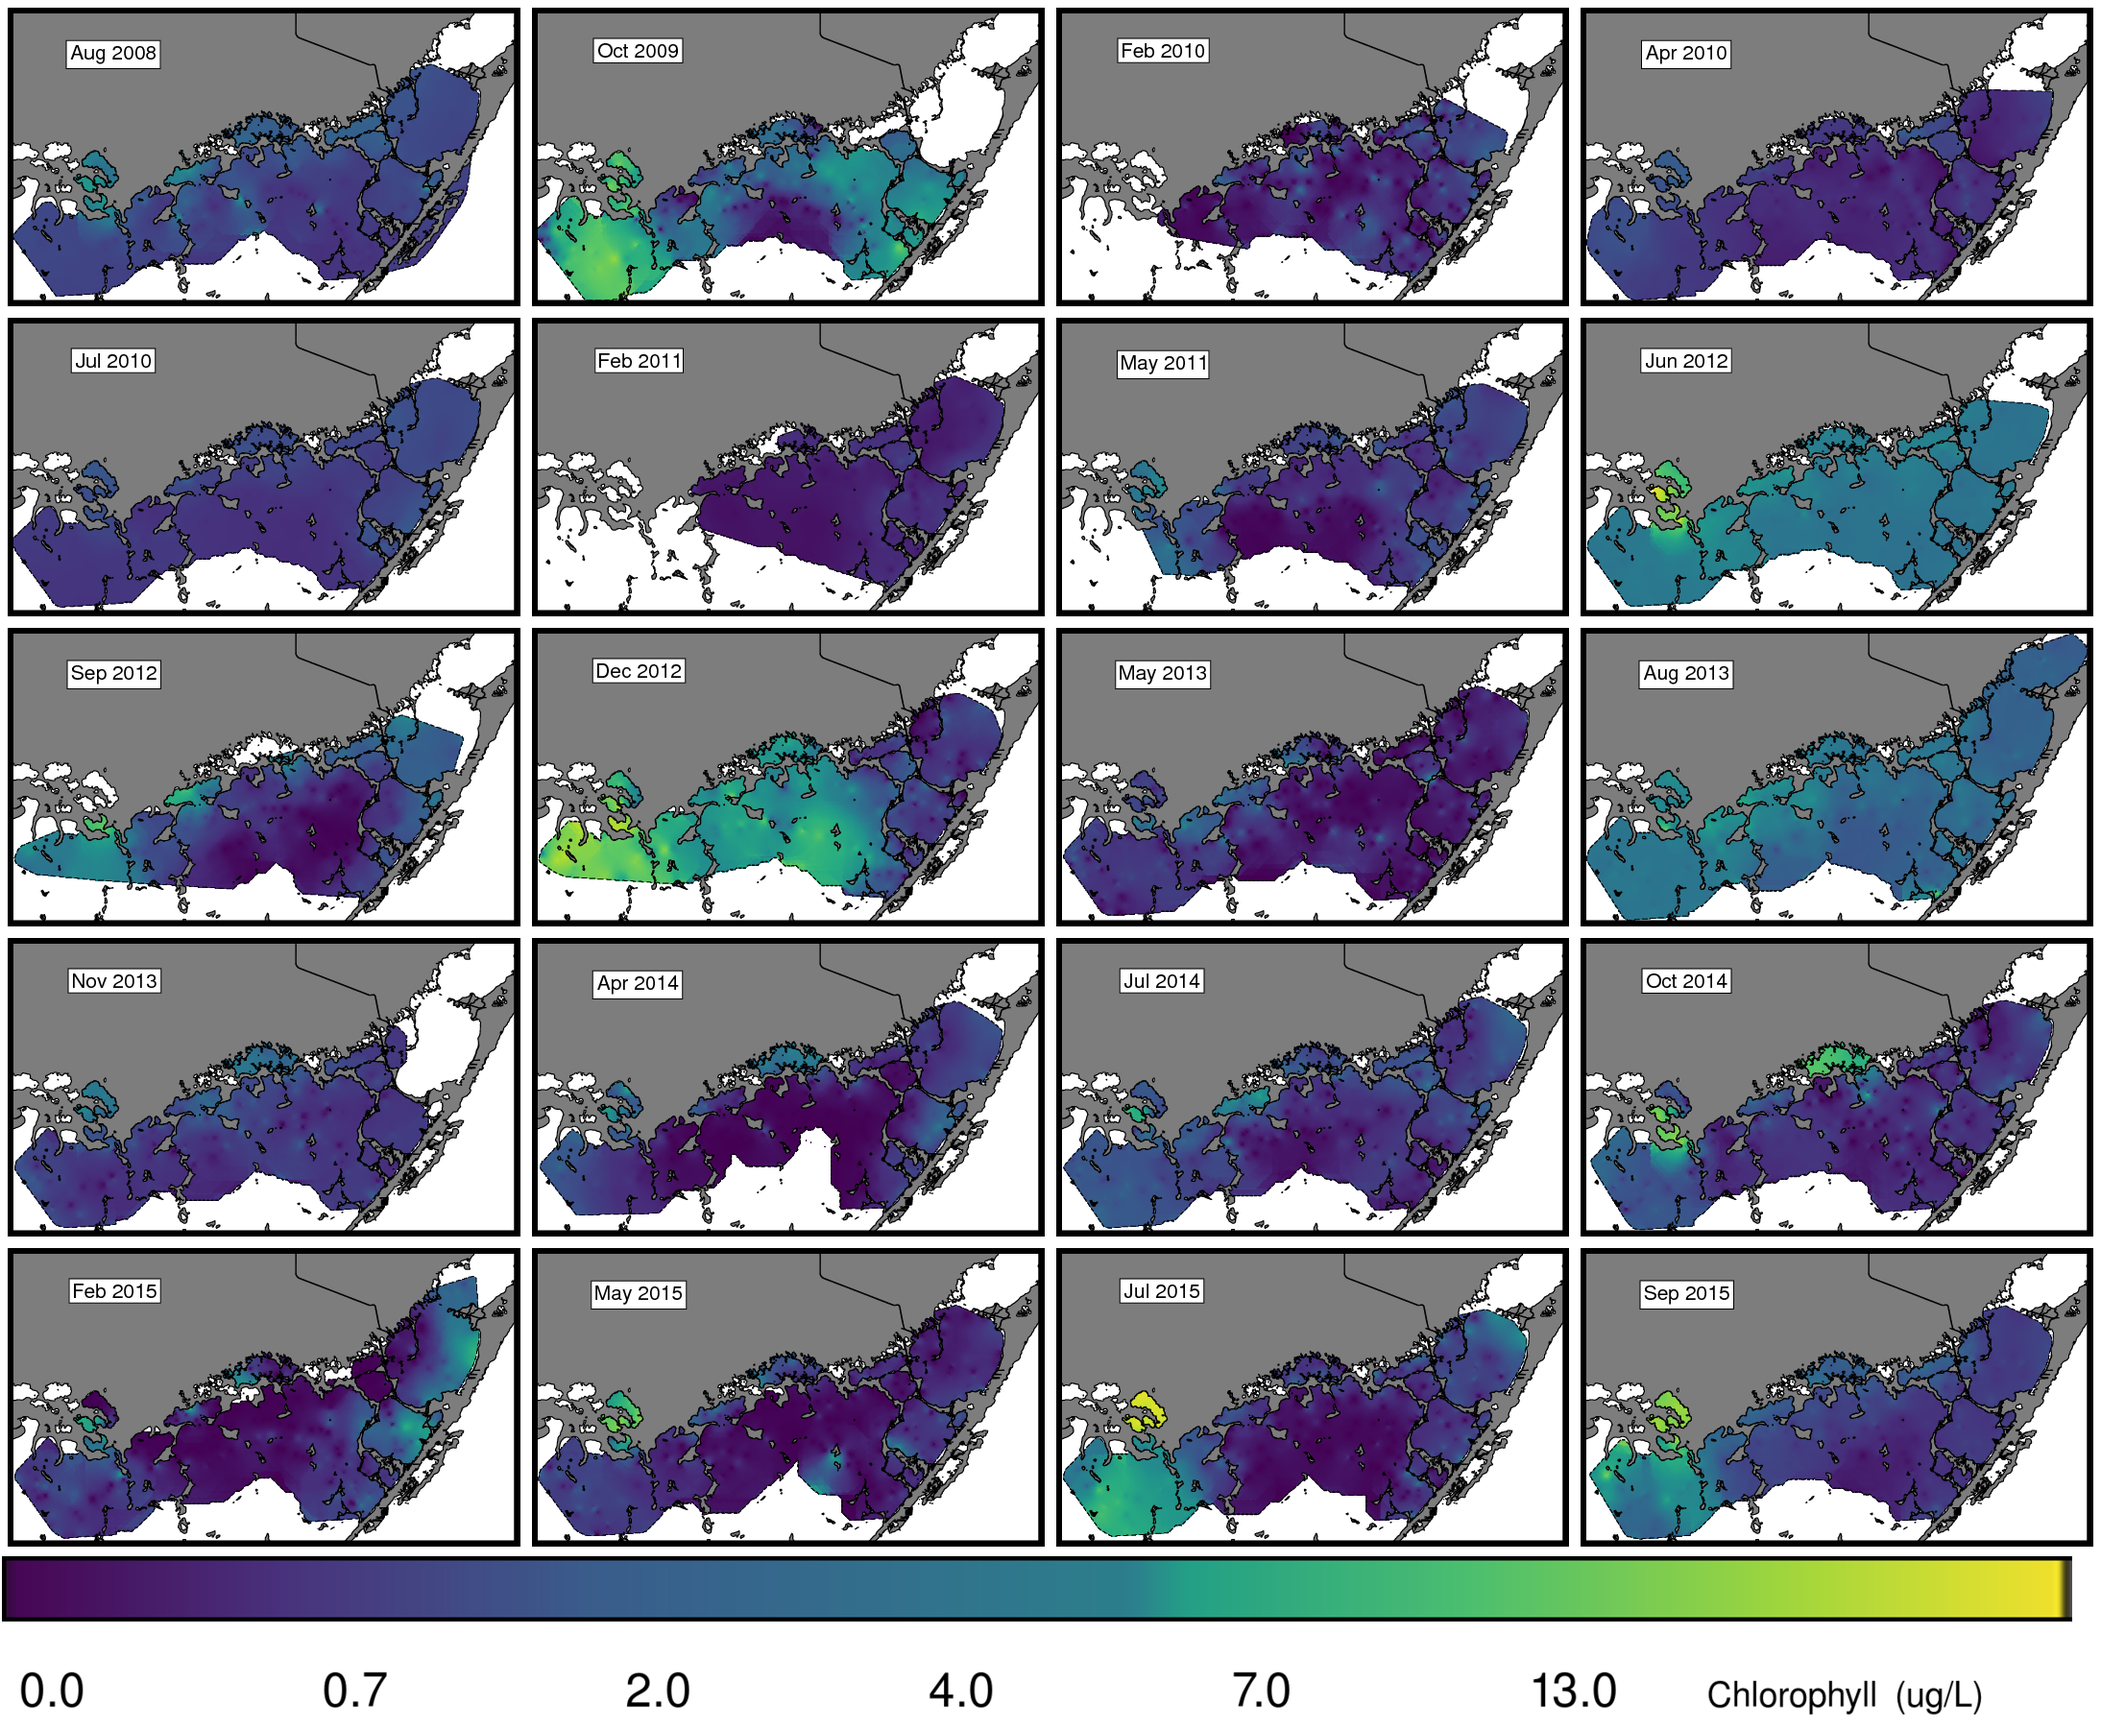
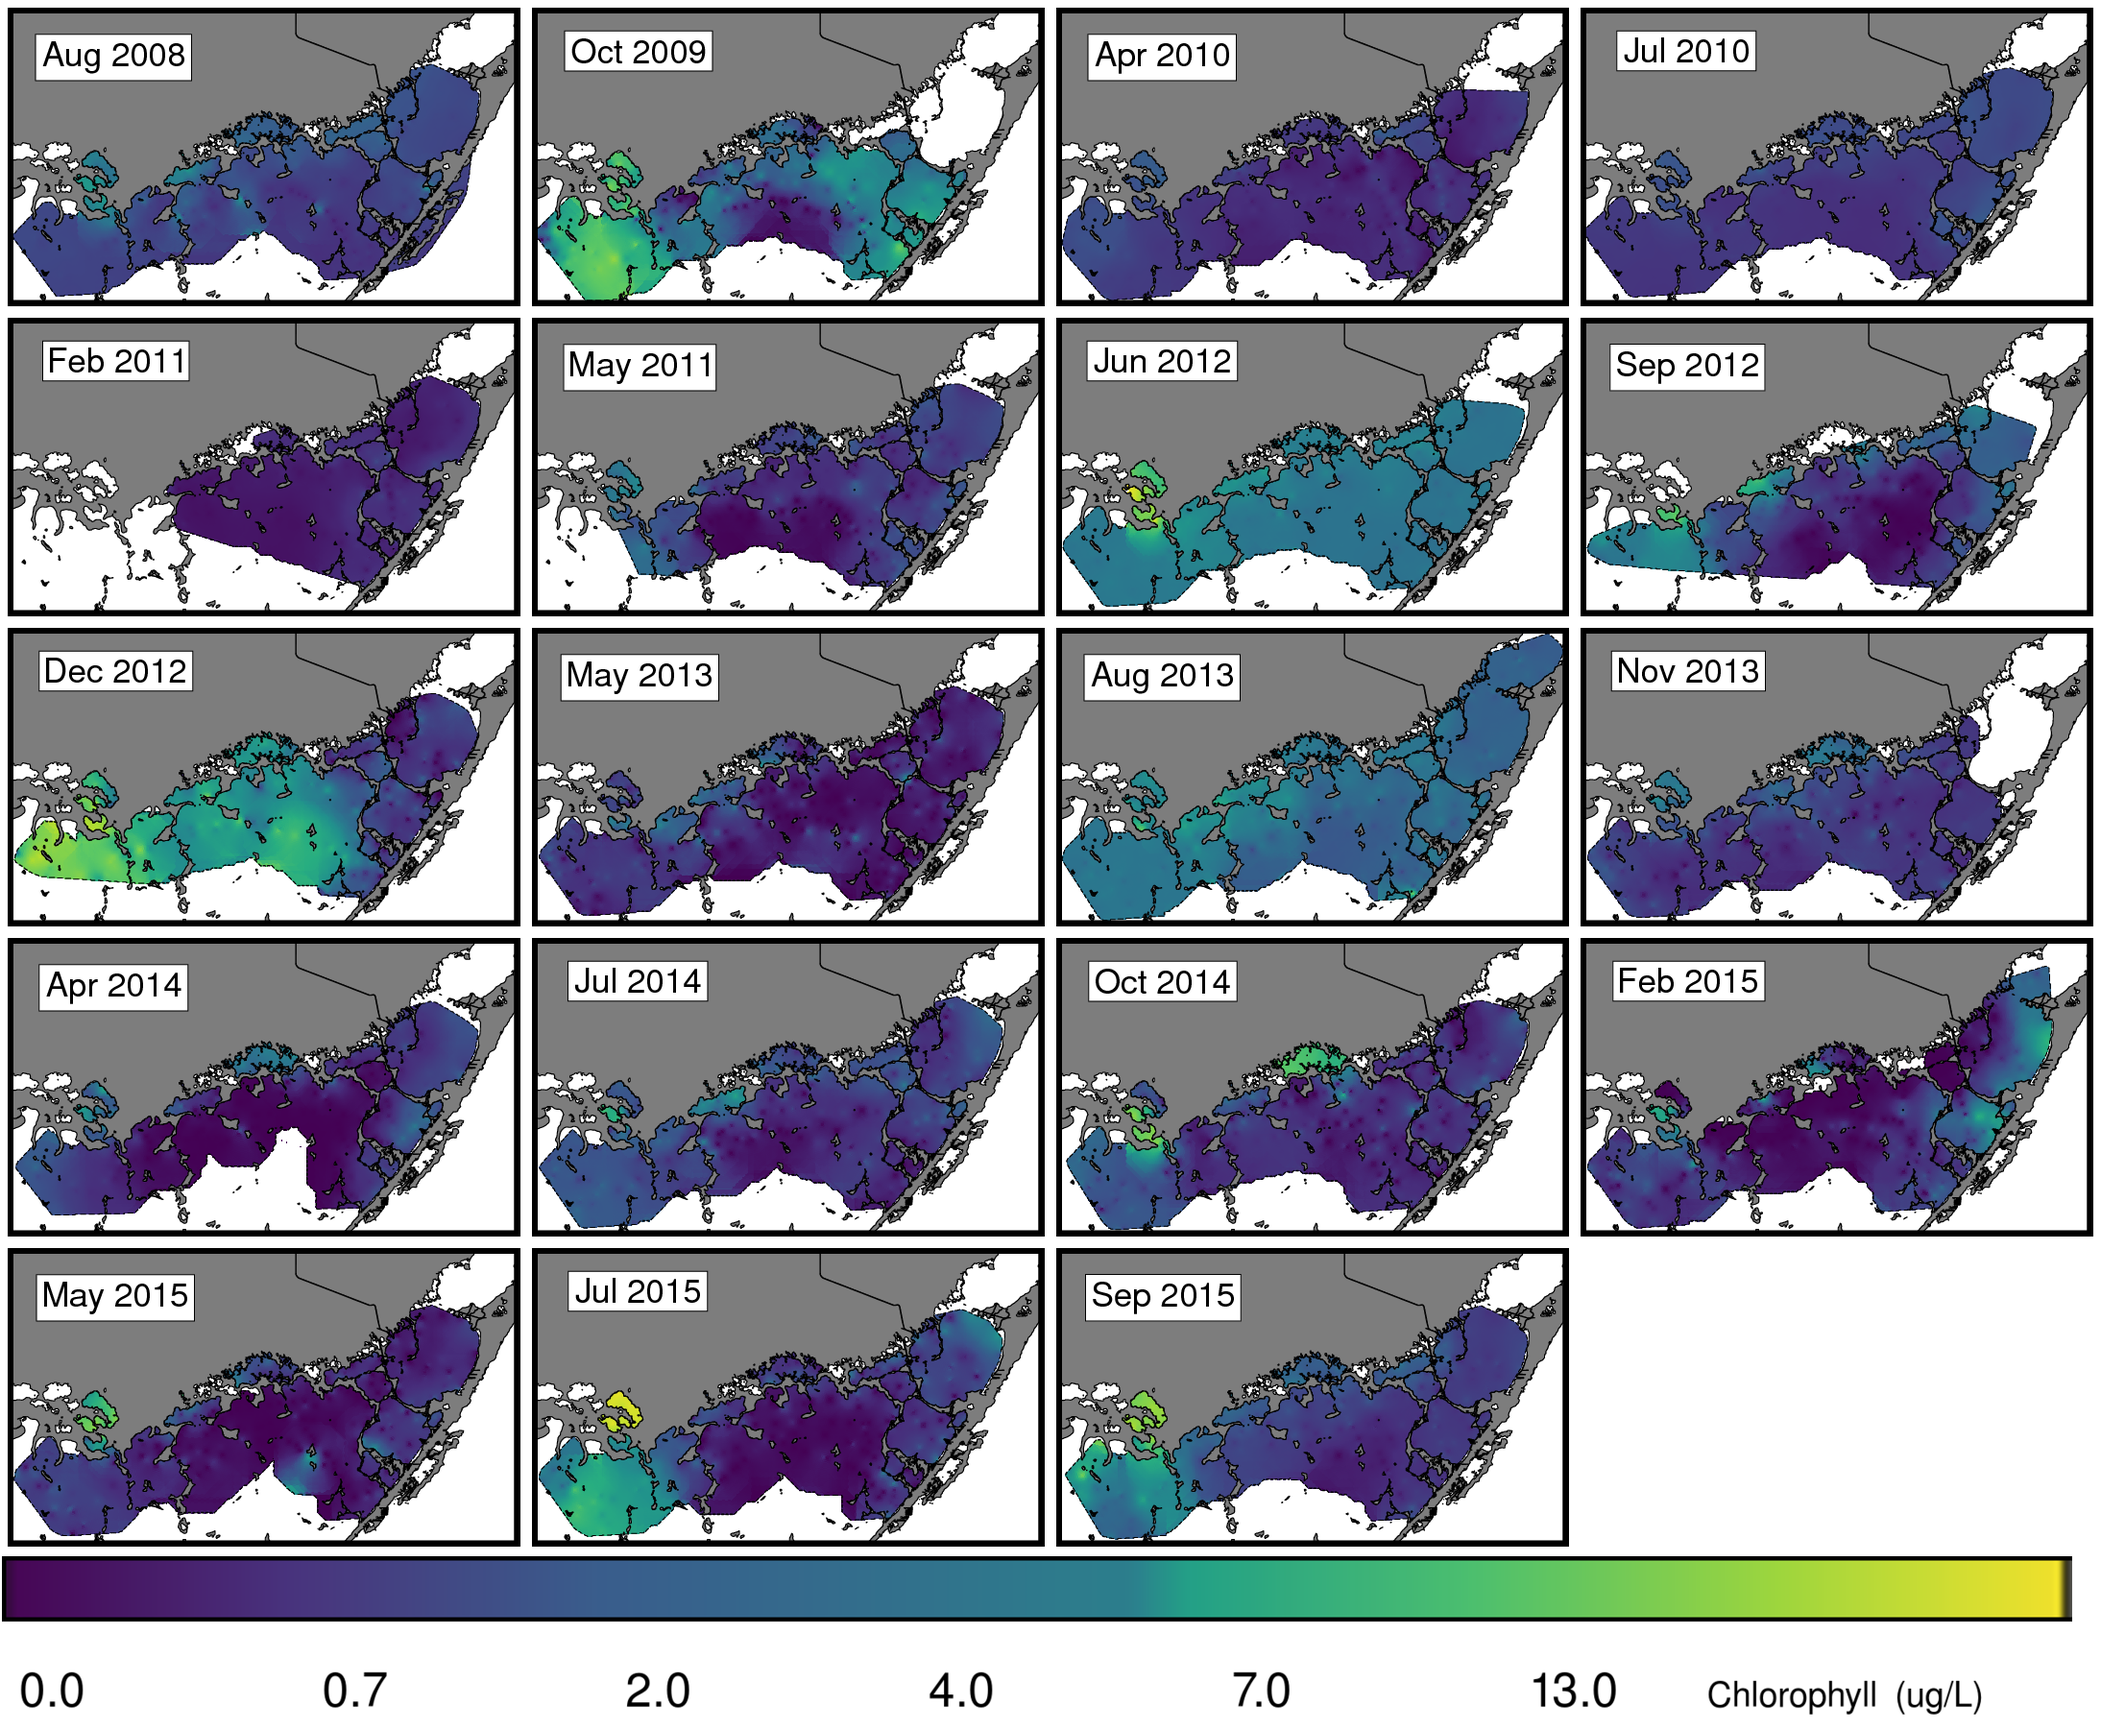
add sample size, drop feb 2010 panel, bigger label size, closes #6

diff --git a/manuscripts/est_coast/table_2.tex b/manuscripts/est_coast/table_2.tex
@@ -1,34 +1,34 @@
 % latex table generated in R 3.4.1 by xtable 1.8-2 package
-% Tue Jul  4 16:46:46 2017
+% Wed Jul  5 09:41:46 2017
 \begin{table}[ht]
 \centering
 \caption{Model coefficients for regressions between Dataflow and chlorophyll concentration of discrete grab samples. Also given is the coefficient of determination (R2) and p-value of each regression.} 
-\begin{tabular}{lrrrrrrrrl}
+\begin{tabular}{lrrrrrrrrlr}
   \hline
-yearmon & cdom & chlaiv & phycoe & c6chl & c6cdom & phycoc & intercept & rsquared & pvalue \\ 
+yearmon & cdom & chlaiv & phycoe & c6chl & c6cdom & phycoc & intercept & rsquared & pvalue & n \\ 
   \hline
-2008-04 &  & 27.63 &  &  &  &  & -4.63 & 0.37 & 0.2 \\ 
-  2008-08 &  & 5.12 &  &  &  &  & -0.14 & 0.90 & $<$0.01 \\ 
-  2008-12 &  &  &  &  &  & 0.05 & 0.03 & 0.39 & 0.19 \\ 
-  2009-10 & -67.15 &  &  & 0.05 &  &  & 6.27 & 0.97 & $<$0.01 \\ 
-  2010-02 &  &  & 0.02 & 0.03 & -0.00 & -0.95 & 3.95 & 0.99 & 0.13 \\ 
-  2010-04 &  & 7.83 &  &  &  &  & -0.92 & 0.69 & $<$0.01 \\ 
-  2010-07 &  & 3.56 &  &  &  &  & 0.05 & 0.45 & 0.02 \\ 
-  2011-02 &  &  &  & 0.01 & -0.00 &  & 0.00 & 0.98 & $<$0.01 \\ 
-  2011-05 &  & 12.52 &  &  &  & 0.15 & -3.13 & 0.90 & $<$0.01 \\ 
-  2012-06 &  &  &  &  &  & 0.06 & 0.25 & 0.84 & $<$0.01 \\ 
-  2012-09 &  & 20.29 &  &  &  &  & -3.43 & 0.84 & $<$0.01 \\ 
-  2012-12 &  &  &  &  & 0.00 & 0.14 & -1.21 & 0.97 & $<$0.01 \\ 
-  2013-05 &  &  &  &  &  & 0.26 & -2.77 & 0.96 & $<$0.01 \\ 
-  2013-08 &  &  &  &  &  & 0.16 & -0.26 & 0.68 & $<$0.01 \\ 
-  2013-11 &  &  &  &  &  & 0.19 & -1.46 & 0.93 & $<$0.01 \\ 
-  2014-04 &  &  &  & 0.02 &  &  & -1.36 & 0.97 & $<$0.01 \\ 
-  2014-07 &  &  & 0.00 & 0.00 &  & 0.15 & -2.62 & 0.91 & $<$0.01 \\ 
-  2014-10 &  &  & -0.00 &  & -0.00 & 0.26 & -2.10 & 0.99 & $<$0.01 \\ 
-  2015-02 &  &  &  & 0.01 & -0.00 & 0.05 & -0.97 & 0.94 & $<$0.01 \\ 
-  2015-05 &  &  &  &  &  & 0.27 & -3.02 & 0.74 & $<$0.01 \\ 
-  2015-07 &  &  &  &  &  & 0.33 & -3.47 & 0.97 & $<$0.01 \\ 
-  2015-09 &  &  &  &  &  & 0.12 & -0.80 & 0.68 & $<$0.01 \\ 
+2008-04 &  & 27.63 &  &  &  &  & -4.63 & 0.37 & 0.2 &   6 \\ 
+  2008-08 &  & 5.12 &  &  &  &  & -0.14 & 0.90 & $<$0.01 &  10 \\ 
+  2008-12 &  &  &  &  &  & 0.05 & 0.03 & 0.39 & 0.19 &   6 \\ 
+  2009-10 & -67.15 &  &  & 0.05 &  &  & 6.27 & 0.97 & $<$0.01 &  11 \\ 
+  2010-02 &  &  & 0.00 & 0.00 & -0.00 &  & -0.13 & 0.63 & 0.5 &  10 \\ 
+  2010-04 &  & 7.83 &  &  &  &  & -0.92 & 0.69 & $<$0.01 &  14 \\ 
+  2010-07 &  & 3.56 &  &  &  &  & 0.05 & 0.45 & 0.02 &  13 \\ 
+  2011-02 &  &  &  & 0.01 & -0.00 &  & 0.00 & 0.98 & $<$0.01 &   9 \\ 
+  2011-05 &  & 12.52 &  &  &  & 0.15 & -3.13 & 0.90 & $<$0.01 &  11 \\ 
+  2012-06 &  &  &  &  &  & 0.06 & 0.25 & 0.84 & $<$0.01 &  12 \\ 
+  2012-09 &  & 20.29 &  &  &  &  & -3.43 & 0.84 & $<$0.01 &  10 \\ 
+  2012-12 &  &  &  &  & 0.00 & 0.14 & -1.21 & 0.97 & $<$0.01 &  11 \\ 
+  2013-05 &  &  &  &  &  & 0.26 & -2.77 & 0.96 & $<$0.01 &  14 \\ 
+  2013-08 &  &  &  &  &  & 0.16 & -0.26 & 0.68 & $<$0.01 &  15 \\ 
+  2013-11 &  &  &  &  &  & 0.19 & -1.46 & 0.93 & $<$0.01 &  14 \\ 
+  2014-04 &  &  &  & 0.02 &  &  & -1.36 & 0.97 & $<$0.01 &  14 \\ 
+  2014-07 &  &  & 0.00 & 0.00 &  & 0.15 & -2.62 & 0.91 & $<$0.01 &  14 \\ 
+  2014-10 &  &  & -0.00 &  & -0.00 & 0.26 & -2.10 & 0.99 & $<$0.01 &  14 \\ 
+  2015-02 &  &  &  & 0.01 & -0.00 & 0.05 & -0.97 & 0.94 & $<$0.01 &  15 \\ 
+  2015-05 &  &  &  &  &  & 0.27 & -3.02 & 0.74 & $<$0.01 &  14 \\ 
+  2015-07 &  &  &  &  &  & 0.33 & -3.47 & 0.97 & $<$0.01 &  14 \\ 
+  2015-09 &  &  &  &  &  & 0.12 & -0.80 & 0.68 & $<$0.01 &  14 \\ 
    \hline
 \end{tabular}
 \end{table}
